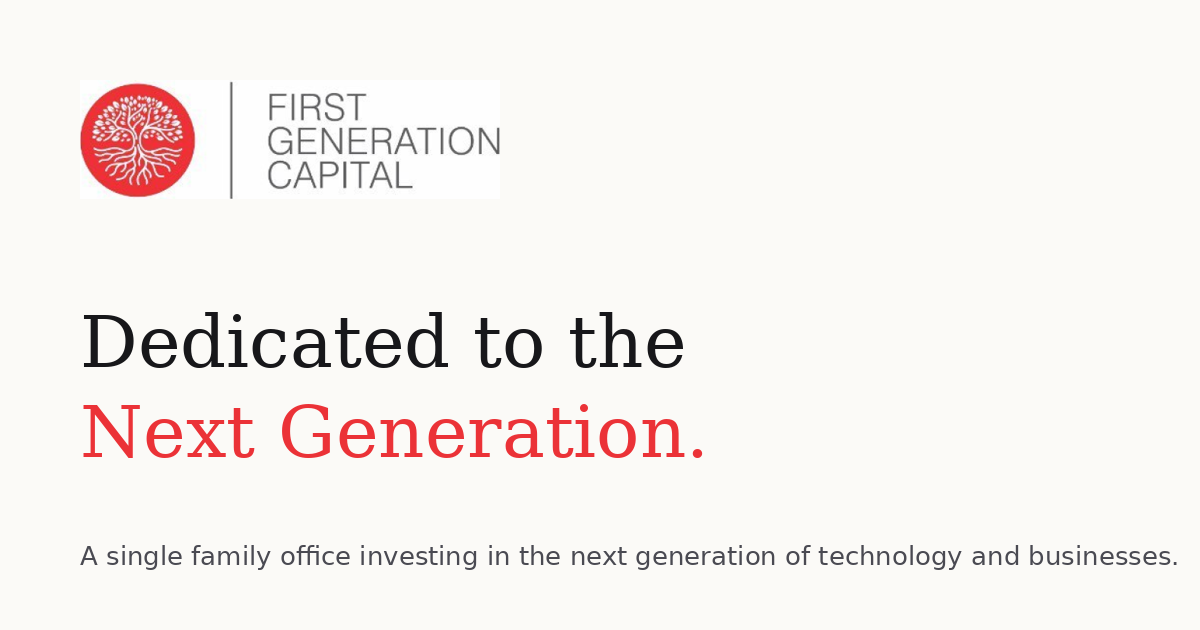
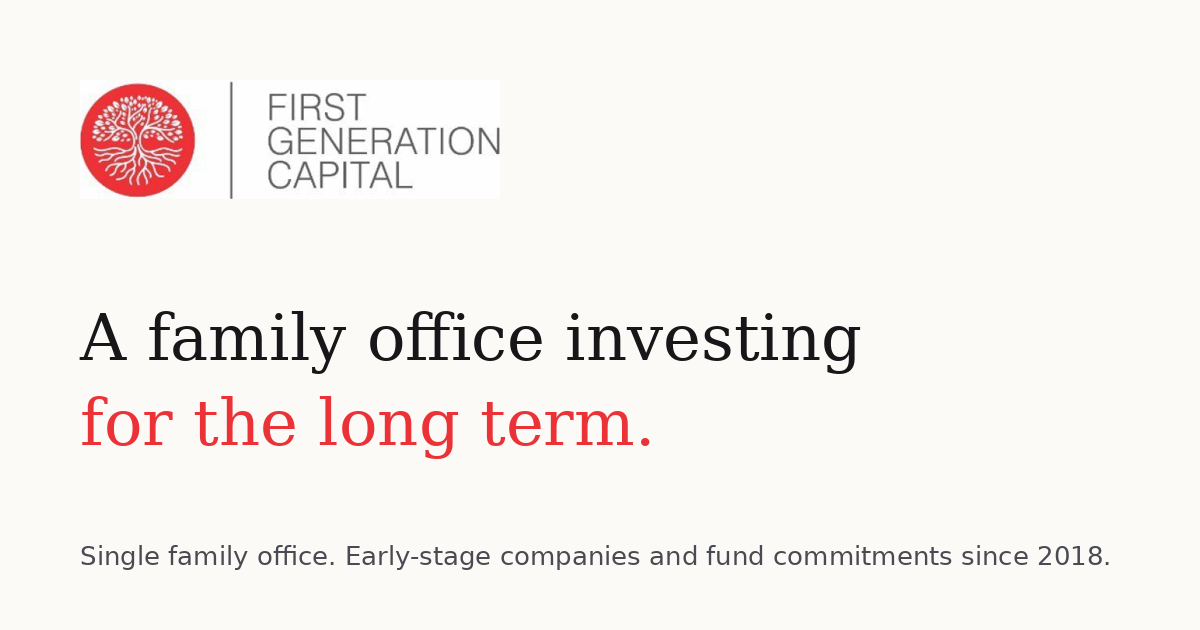
Revise copy to an understated, factual tone

Changed region(s): [[0.0617, 0.4825, 0.74, 0.6032], [0.0617, 0.6333, 0.5858, 0.7238], [0.0617, 0.8444, 0.9867, 0.9048]]

diff --git a/src/data/site.ts b/src/data/site.ts
@@ -1,9 +1,9 @@
 export const site = {
   name: "First Generation Capital",
   legalName: "First Generation Capital Limited",
-  tagline: "Dedicated to the Next Generation.",
+  tagline: "A family office investing for the long term.",
   description:
-    "First Generation Capital is a single family office investing in the next generation of technology and businesses across startups, private equity, venture capital, real estate and hedge funds.",
+    "First Generation Capital is a single family office. Since 2018 we have invested in early-stage companies and committed to venture, private equity, real estate and hedge fund managers.",
   url: "https://www.firstgenerationcapital.com",
   contactUrl: "https://form.typeform.com/to/F9qWDmmj",
   linkedin: "https://www.linkedin.com/company/firstgenerationcapital/",
